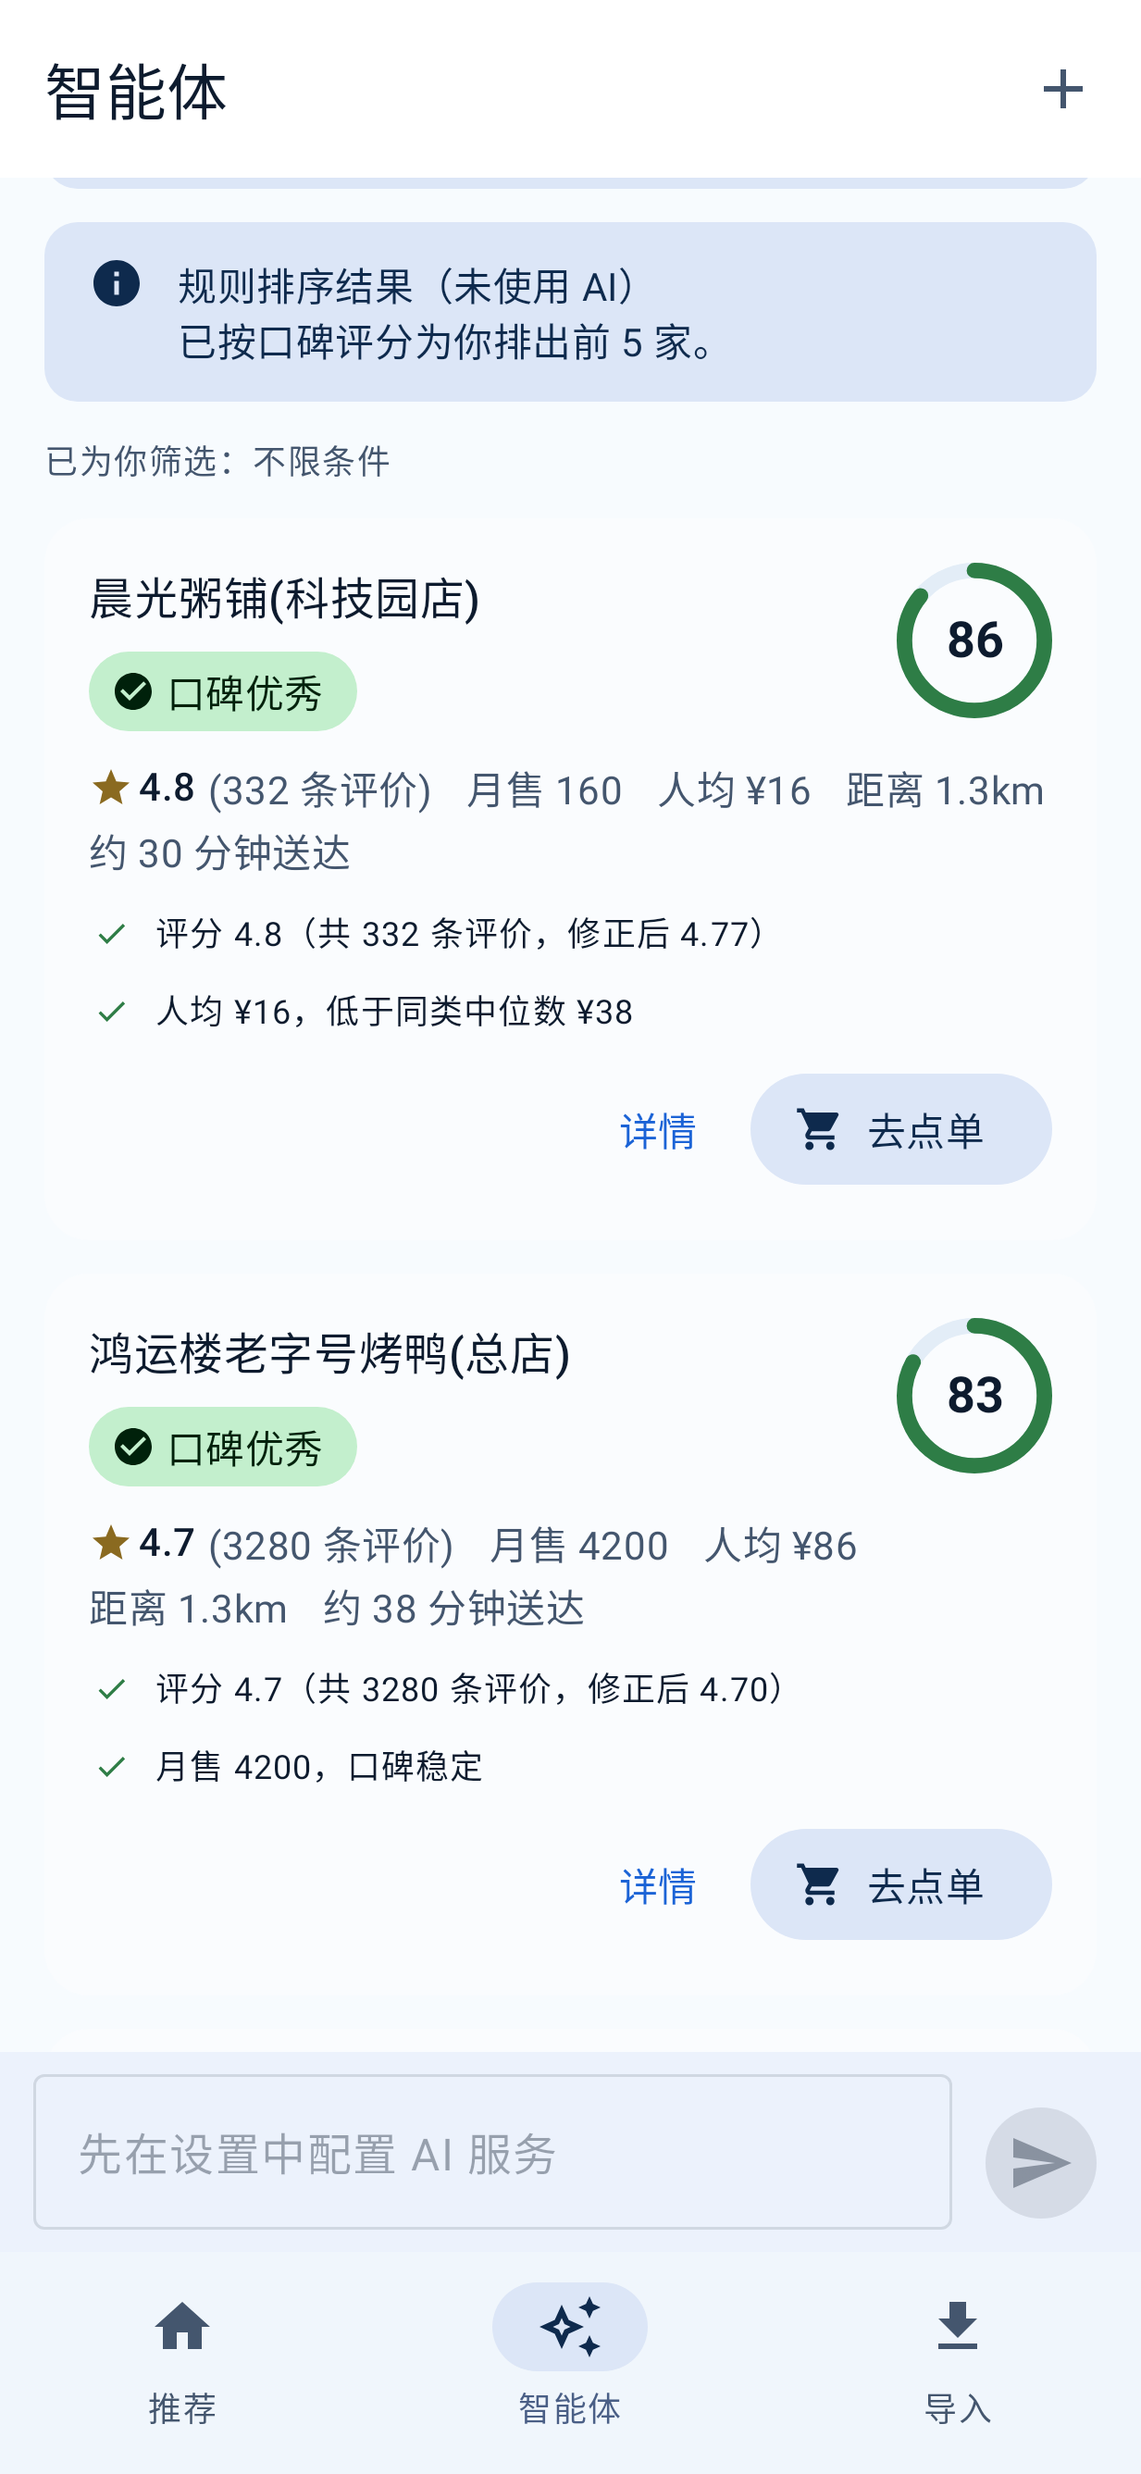
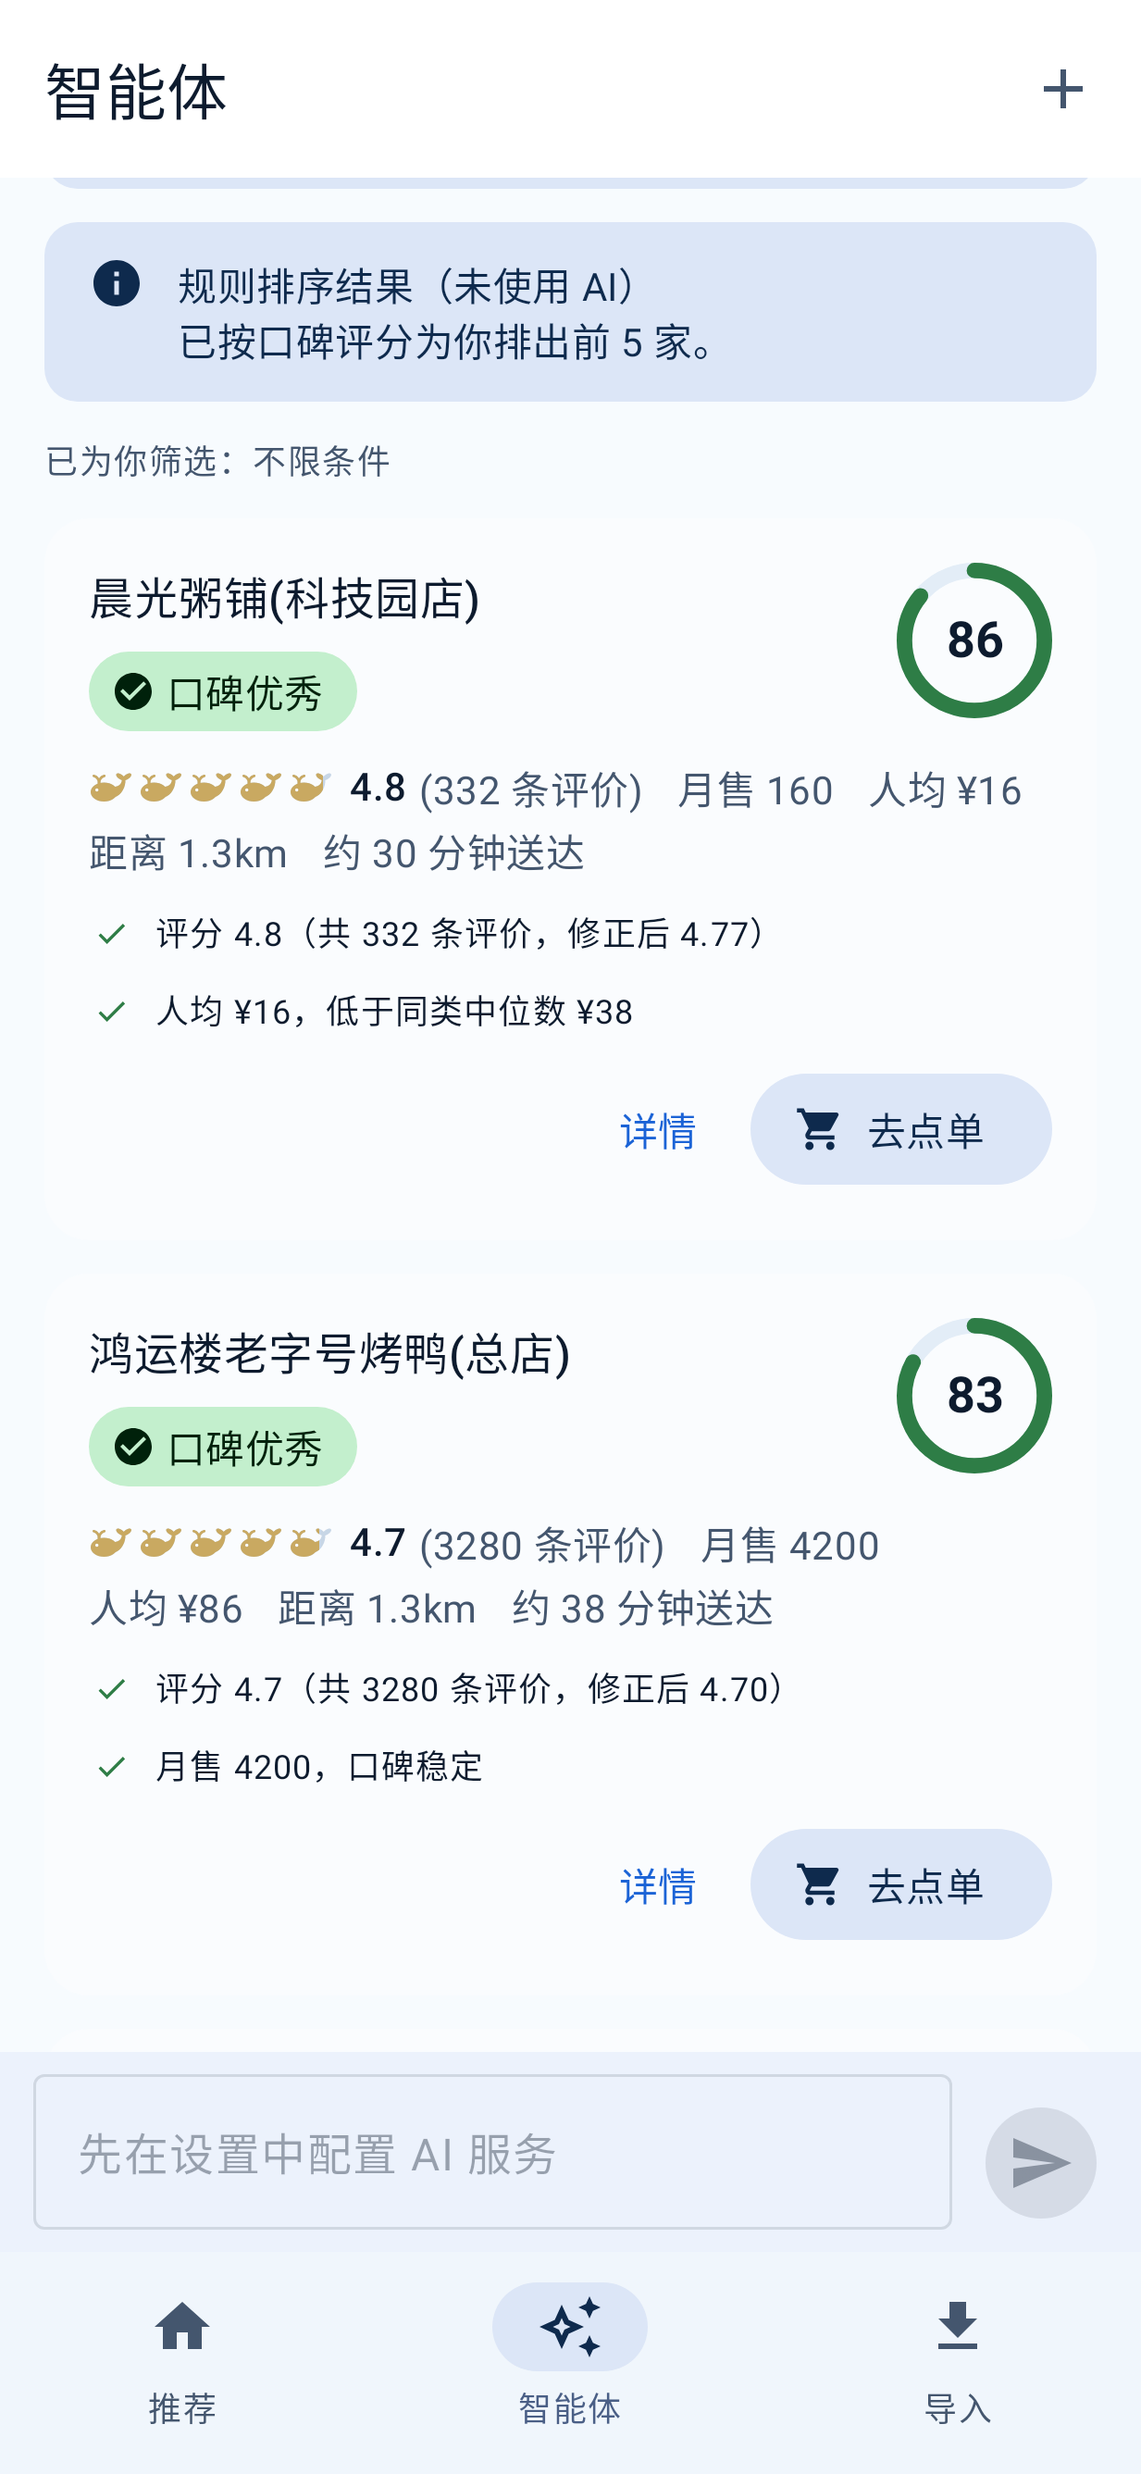
Rating as five small whales instead of a star (handoff 3.5)
One whale is one point; a fraction fills the last whale from the head end, and
the number and review count stay next to it, so the whales are decoration and
the row keeps a single accessible description. The whale is an original
ImageVector (round body, raised tail with two flukes, a two-stroke spout, the
eye cut out of the shape) tinted with the new KoubeiColors.ratingFill (gold_500
in light, gold_300 in dark). An earlier try with the style board's outline read
as a goldfish when rendered at 14 dp, hence the new drawing.

Docs, test counts and the screenshots are refreshed.

Claude-Session: https://claude.ai/code/session_01ArcJ59BofKtBQiZUgYFEGq

diff --git a/app/src/main/kotlin/com/koubeiradar/app/ui/components/WhaleRating.kt b/app/src/main/kotlin/com/koubeiradar/app/ui/components/WhaleRating.kt
@@ -1,0 +1,117 @@
+package com.koubeiradar.app.ui.components
+
+import androidx.compose.foundation.layout.Arrangement
+import androidx.compose.foundation.layout.Box
+import androidx.compose.foundation.layout.Row
+import androidx.compose.foundation.layout.fillMaxSize
+import androidx.compose.foundation.layout.size
+import androidx.compose.material3.Icon
+import androidx.compose.material3.MaterialTheme
+import androidx.compose.runtime.Composable
+import androidx.compose.ui.Modifier
+import androidx.compose.ui.draw.drawWithContent
+import androidx.compose.ui.graphics.Color
+import androidx.compose.ui.graphics.SolidColor
+import androidx.compose.ui.graphics.StrokeCap
+import androidx.compose.ui.graphics.drawscope.clipRect
+import androidx.compose.ui.graphics.vector.ImageVector
+import androidx.compose.ui.graphics.vector.PathParser
+import androidx.compose.ui.tooling.preview.Preview
+import androidx.compose.ui.unit.Dp
+import androidx.compose.ui.unit.dp
+import com.koubeiradar.app.ui.theme.KoubeiTheme
+import com.koubeiradar.app.ui.theme.koubeiColors
+
+/**
+ * A rating on the 0..5 scale as five whales, one whale per point; a fraction fills the last whale partly, from the head end.
+ * Purely decorative: the screen reader gets the number from the surrounding row, so the whales carry no description.
+ * [iconWidth] is the width of one whale; its height follows the drawing's proportions.
+ */
+@Composable
+fun WhaleRating(rating: Double, modifier: Modifier = Modifier, iconWidth: Dp = 16.dp) {
+    val filled = MaterialTheme.koubeiColors.ratingFill
+    val empty = MaterialTheme.colorScheme.outlineVariant
+    Row(modifier, horizontalArrangement = Arrangement.spacedBy(2.dp)) {
+        repeat(WHALE_COUNT) { index ->
+            val fill = whaleFill(rating, index)
+            Box(Modifier.size(width = iconWidth, height = iconWidth * (WHALE_VIEWPORT_HEIGHT / WHALE_VIEWPORT_WIDTH))) {
+                Icon(Whale, contentDescription = null, tint = empty, modifier = Modifier.fillMaxSize())
+                if (fill > 0f) {
+                    Icon(Whale, contentDescription = null, tint = filled, modifier = Modifier.fillMaxSize().clipToFill(fill))
+                }
+            }
+        }
+    }
+}
+
+/** How much of the whale at [index] (0-based) a [rating] fills, 0..1. Out-of-range ratings saturate instead of overflowing. */
+internal fun whaleFill(rating: Double, index: Int): Float =
+    if (rating.isNaN()) 0f else (rating - index).coerceIn(0.0, 1.0).toFloat()
+
+/**
+ * Where the clip edge sits (as a share of the icon width) for a whale filled by [fill]: the drawing does not span the whole
+ * viewport, so a plain `fill * width` would show an "80 %" whale as nearly full.
+ */
+internal fun clipEdge(fill: Float): Float = WHALE_LEFT + (WHALE_RIGHT - WHALE_LEFT) * fill
+
+private fun Modifier.clipToFill(fill: Float): Modifier = drawWithContent {
+    clipRect(right = size.width * clipEdge(fill)) { this@drawWithContent.drawContent() }
+}
+
+private const val WHALE_COUNT = 5
+
+private const val WHALE_VIEWPORT_WIDTH = 24f
+private const val WHALE_VIEWPORT_HEIGHT = 16.8f
+
+// The drawing runs from x = 1 to x = 23 of the 24-unit viewport.
+private const val WHALE_LEFT = 1f / WHALE_VIEWPORT_WIDTH
+private const val WHALE_RIGHT = 23f / WHALE_VIEWPORT_WIDTH
+
+/**
+ * A whale in profile, head left, tail raised on the right, with a two-stroke spout. The body, the stalk and the two flukes
+ * overlap and are filled as one shape (non-zero winding); the eye is wound the other way round, which cuts it out so the
+ * card colour shows through in both themes. Drawn for this app.
+ */
+private val Whale: ImageVector = ImageVector.Builder(
+    name = "Whale",
+    defaultWidth = WHALE_VIEWPORT_WIDTH.dp,
+    defaultHeight = WHALE_VIEWPORT_HEIGHT.dp,
+    viewportWidth = WHALE_VIEWPORT_WIDTH,
+    viewportHeight = WHALE_VIEWPORT_HEIGHT,
+).apply {
+    addPath(
+        pathData = PathParser().parsePathString(
+            // body
+            "M15.43 10.89C15.43 13.71 12.2 16 8.21 16C4.23 16 1 13.71 1 10.89C1 8.06 4.23 5.77 8.21 5.77" +
+                "C12.2 5.77 15.43 8.06 15.43 10.89Z" +
+                // tail stalk
+                "M12.58 8.03C16.27 8.2 17.95 6.52 17.95 3.5C18.56 3.62 19.18 3.73 19.79 3.84" +
+                "C19.96 8.03 17.95 12.4 13.42 13.91Z" +
+                // left and right fluke
+                "M19.53 4.38C19.12 4.97 17.74 4.72 16.45 3.81C15.16 2.91 14.44 1.7 14.86 1.11" +
+                "C15.27 0.52 16.65 0.78 17.94 1.68C19.23 2.59 19.94 3.8 19.53 4.38Z" +
+                "M22.88 1.11C23.3 1.7 22.58 2.91 21.29 3.81C20 4.72 18.62 4.97 18.21 4.38" +
+                "C17.8 3.8 18.51 2.59 19.8 1.68C21.09 0.78 22.47 0.52 22.88 1.11Z" +
+                // eye (opposite winding)
+                "M5.24 9.71C5.24 9.23 4.84 8.83 4.36 8.83C3.87 8.83 3.47 9.23 3.47 9.71C3.47 10.2 3.87 10.59 4.36 10.59" +
+                "C4.84 10.59 5.24 10.2 5.24 9.71Z",
+        ).toNodes(),
+        fill = SolidColor(Color.Black),
+    )
+    for (spout in listOf("M5.53 6.19C5.53 3.84 4.36 2.66 2.68 2.16", "M5.53 6.19C5.53 3.84 6.7 2.66 8.38 2.16")) {
+        addPath(
+            pathData = PathParser().parsePathString(spout).toNodes(),
+            stroke = SolidColor(Color.Black),
+            strokeLineWidth = 1.35f,
+            strokeLineCap = StrokeCap.Round,
+        )
+    }
+}.build()
+
+@Preview(showBackground = true)
+@Composable
+private fun WhaleRatingPreview() {
+    KoubeiTheme(dynamicColor = false) {
+        WhaleRating(4.8, iconWidth = 24.dp)
+    }
+}

diff --git a/app/src/test/kotlin/com/koubeiradar/app/WhaleRatingTest.kt b/app/src/test/kotlin/com/koubeiradar/app/WhaleRatingTest.kt
@@ -1,0 +1,42 @@
+package com.koubeiradar.app
+
+import com.koubeiradar.app.ui.components.clipEdge
+import com.koubeiradar.app.ui.components.whaleFill
+import kotlin.test.Test
+import kotlin.test.assertEquals
+import kotlin.test.assertTrue
+
+/** The arithmetic behind the five-whale rating: which whale is how full, and where the partial fill is cut. */
+class WhaleRatingTest {
+    private fun fills(rating: Double) = (0 until 5).map { whaleFill(rating, it) }
+
+    @Test
+    fun aWholeRatingFillsThatManyWhalesAndNoMore() {
+        assertEquals(listOf(1f, 1f, 1f, 0f, 0f), fills(3.0))
+        assertEquals(listOf(1f, 1f, 1f, 1f, 1f), fills(5.0))
+        assertEquals(listOf(0f, 0f, 0f, 0f, 0f), fills(0.0))
+    }
+
+    @Test
+    fun aFractionPartlyFillsTheNextWhale() {
+        val fills = fills(4.8)
+        assertEquals(listOf(1f, 1f, 1f, 1f), fills.take(4))
+        assertEquals(0.8f, fills[4], 1e-6f)
+    }
+
+    @Test
+    fun outOfRangeAndMissingValuesSaturateInsteadOfOverflowing() {
+        assertEquals(fills(5.0), fills(7.3))
+        assertEquals(fills(0.0), fills(-2.0))
+        assertEquals(fills(0.0), fills(Double.NaN))
+        assertEquals(fills(5.0), fills(Double.POSITIVE_INFINITY))
+    }
+
+    @Test
+    fun theClipEdgeFollowsTheSilhouetteNotTheWholeIcon() {
+        assertEquals(1f / 24f, clipEdge(0f), 1e-6f)
+        assertEquals(23f / 24f, clipEdge(1f), 1e-6f)
+        assertEquals(12f / 24f, clipEdge(0.5f), 1e-6f)
+        assertTrue(clipEdge(0.8f) < 19f / 24f, "80 % must not already cover the tail")
+    }
+}

diff --git a/app/src/main/kotlin/com/koubeiradar/app/ui/components/ShopCard.kt b/app/src/main/kotlin/com/koubeiradar/app/ui/components/ShopCard.kt
@@ -12,7 +12,6 @@ import androidx.compose.foundation.layout.size
 import androidx.compose.material.icons.Icons
 import androidx.compose.material.icons.filled.Check
 import androidx.compose.material.icons.filled.ShoppingCart
-import androidx.compose.material.icons.filled.Star
 import androidx.compose.material.icons.filled.Warning
 import androidx.compose.material3.ButtonDefaults
 import androidx.compose.material3.Card
@@ -112,8 +111,8 @@ private fun RatingFact(rating: Double?, count: Int?) {
         verticalAlignment = Alignment.CenterVertically,
         modifier = Modifier.semantics(mergeDescendants = true) { contentDescription = description },
     ) {
-        Icon(Icons.Default.Star, contentDescription = null, modifier = Modifier.size(16.dp), tint = MaterialTheme.koubeiColors.warning)
-        Spacer(Modifier.size(2.dp))
+        WhaleRating(rating)
+        Spacer(Modifier.size(6.dp))
         Text(Formatters.rating(rating), style = MaterialTheme.typography.bodyMedium, fontWeight = FontWeight.SemiBold)
         if (count != null) {
             Spacer(Modifier.size(4.dp))

diff --git a/app/src/main/kotlin/com/koubeiradar/app/ui/theme/Theme.kt b/app/src/main/kotlin/com/koubeiradar/app/ui/theme/Theme.kt
@@ -70,16 +70,20 @@ class KoubeiColors(
     val warning: Color,
     val warningContainer: Color,
     val onWarningContainer: Color,
+    /** The filled whales of a rating (gold_500 / gold_300 of the brand ramp). Decorative: the number next to it carries the value. */
+    val ratingFill: Color,
 )
 
 private val LightKoubeiColors = KoubeiColors(
     success = Color(0xFF2E7D46), successContainer = Color(0xFFC3EFCD), onSuccessContainer = Color(0xFF00210B),
     warning = Color(0xFF8A6A20), warningContainer = Color(0xFFF7E8C4), onWarningContainer = Color(0xFF3A2A00),
+    ratingFill = Color(0xFFC9A961),
 )
 
 private val DarkKoubeiColors = KoubeiColors(
     success = Color(0xFF9CD9AE), successContainer = Color(0xFF14532B), onSuccessContainer = Color(0xFFC3EFCD),
     warning = Color(0xFFEBD69E), warningContainer = Color(0xFF5A4410), onWarningContainer = Color(0xFFF7E8C4),
+    ratingFill = Color(0xFFEBD69E),
 )
 
 private val LocalKoubeiColors = staticCompositionLocalOf { LightKoubeiColors }

diff --git a/README.md b/README.md
@@ -3,7 +3,7 @@
 自动从附近的外卖/餐厅里筛出**口碑真正靠谱**的门店的 Android App。
 评分与筛选是确定性的、可解释的内核；**智能体（LLM Agent）**负责听懂一句话需求、阅读评价找雷点、把截图变成数据。
 
-> 状态：v0.1。能从零构建，820 条自动化测试全绿，界面已在 JVM 上用 Robolectric 真实跑起来并截图。
+> 状态：v0.1。能从零构建，825 条自动化测试全绿，界面已在 JVM 上用 Robolectric 真实跑起来并截图。
 > **尚未在真机/模拟器上运行过，也未用真实的高德 Key、百度 AK 与 LLM Key 联调过**——见下文「验证状态」，请先读完再用。
 
 ## 它做什么
@@ -75,9 +75,9 @@ export ANDROID_HOME=/path/to/android-sdk     # 或在 local.properties 里写 sd
 
 **已验证**
 - 从全新目录、关闭构建缓存，`./gradlew test assembleDebug` 通过（AGP 9.4.1 / Gradle 9.6 / Kotlin 2.4.21 / compileSdk 37）。
-- 820 条自动化测试：core 146（评分、筛选、评价词典）、data 245（高德与百度的解析/分页/错误映射/密钥脱敏/坐标参数、两家的反向地理编码（标签缩短、`[]` 空字段、无结果、缓存命中/取整/并发）、营业时间、演示数据、合并与并发缓存，含真实管线集成测试，其中百度夹具验证"有评价数才有置信分"）、
+- 825 条自动化测试：core 146（评分、筛选、评价词典）、data 245（高德与百度的解析/分页/错误映射/密钥脱敏/坐标参数、两家的反向地理编码（标签缩短、`[]` 空字段、无结果、缓存命中/取整/并发）、营业时间、演示数据、合并与并发缓存，含真实管线集成测试，其中百度夹具验证"有评价数才有置信分"）、
   agent 155（Claude 与 OpenAI 兼容两种线协议、智能体循环、提示注入防护、导入提取，含"真实工具 + 脚本化模型"的端到端测试）、
-  app 274（ViewModel（含定位地址的后台解析、取消、静默失败、演示模式零请求）、设置与加密（含数据源选择与旧版设置兼容）、坐标转换、分享入口、每日推荐的调度/用例/设置，以及 53 条 Robolectric 测试：真实 `MainActivity` 启动、导航、旋转重建、分享、字体放大、暗色、定位行显示地址、每日推荐的通知与 WorkManager）。
+  app 279（ViewModel（含定位地址的后台解析、取消、静默失败、演示模式零请求）、设置与加密（含数据源选择与旧版设置兼容）、坐标转换、分享入口、每日推荐的调度/用例/设置，以及 53 条 Robolectric 测试：真实 `MainActivity` 启动、导航、旋转重建、分享、字体放大、暗色、定位行显示地址、每日推荐的通知与 WorkManager）。
 - 独立评审（两位评审者各自在隔离副本里复现问题）又找出 10 个真实缺陷并已修复：导入器在回复被截断时丢光所有店铺、Claude 超时被 SDK 重试放大、带程度副词的差评（"不太新鲜"）被判成中性、"优惠券过期"误触发卫生红线、`LlmConfig.toString()` 会打出密钥等。
 - 完整构建 `test assembleDebug` 最近一次全绿；但有一次并行跑时 `MealSettingsSmokeTest.turningLunchOnStoresItAndLeavesTheRestAlone` 因等待界面空闲超时失败（与本次改动无关的既有测试），单独重跑与完整重跑都通过，疑似机器负载下的偶发超时，没有查明根因。
 - 冒烟测试发现并修复了 3 个真实缺陷（异常的分享提供方会让导入页崩溃；分享到达时不会切到导入页；提示条按钮白底白字）。

diff --git a/docs/DESIGN.md b/docs/DESIGN.md
@@ -308,7 +308,7 @@ UI 与智能体共享的内存池 = **附近店铺（来自 ShopSource）∪ 导
 
 | 页面 | 内容 |
 |---|---|
-| 推荐（首页） | 顶部：当前位置（可点击手动输入地址→所选数据源的地理编码）、数据源标签（高德地图 / 百度地图 / 演示数据）、刷新。筛选条件摘要 chips（点击进入条件面板）+ 评分偏好预设（口碑优先/性价比/速度）。列表：店名、综合分环、结论徽标、★评分与评价数、人均、距离/送达、最多 2 条理由、红色警告。按钮：「去点单」（选平台→复制店名→拉起 App）。空/加载/错误态齐全 |
+| 推荐（首页） | 顶部：当前位置（可点击手动输入地址→所选数据源的地理编码）、数据源标签（高德地图 / 百度地图 / 演示数据）、刷新。筛选条件摘要 chips（点击进入条件面板）+ 评分偏好预设（口碑优先/性价比/速度）。列表：店名、综合分环、结论徽标、小鲸评分（五只小鲸，1 鲸 = 1 分，小数部分填充最后一只，旁边仍写数字与评价数）、人均、距离/送达、最多 2 条理由、红色警告。按钮：「去点单」（选平台→复制店名→拉起 App）。空/加载/错误态齐全 |
 | 智能体 | 聊天式：输入框 + 示例提示；执行时显示步骤日志（`AgentEvent`）；结果为推荐卡片（理由/可点菜/避雷提示）+ 总结；可追问（带 `previousTurns`）。未配置 Key 时引导去设置；调用失败回退到确定性排序并提示 |
 | 导入 | 选图（系统 Photo Picker，多选）/ 粘贴文本 / 接收系统「分享」（`ACTION_SEND` `text/plain`、`image/*`）→「识别」→ 预览提取结果与说明 →「加入候选池」 |
 | 详情 | 综合分与分项条形图（评分/置信/口碑文本/性价比/便利/罚分）、理由、警告、评价原文（若有，标注"用户生成内容"）、去点单 |

diff --git a/CLAUDE.md b/CLAUDE.md
@@ -12,7 +12,7 @@ Android App：从附近外卖/餐厅里按「口碑」筛店。Kotlin + Jetpack 
 
 评分是确定性、可解释的内核；LLM 只负责听懂需求、读评价、把截图变数据。**不要为了 UI 改动碰 core/data/agent。**
 
-构建：JDK 17+ / compileSdk 37 / `./gradlew test`（820 条，全绿是基线）/ `./gradlew assembleDebug`。
+构建：JDK 17+ / compileSdk 37 / `./gradlew test`（825 条，全绿是基线）/ `./gradlew assembleDebug`。
 
 ---
 
